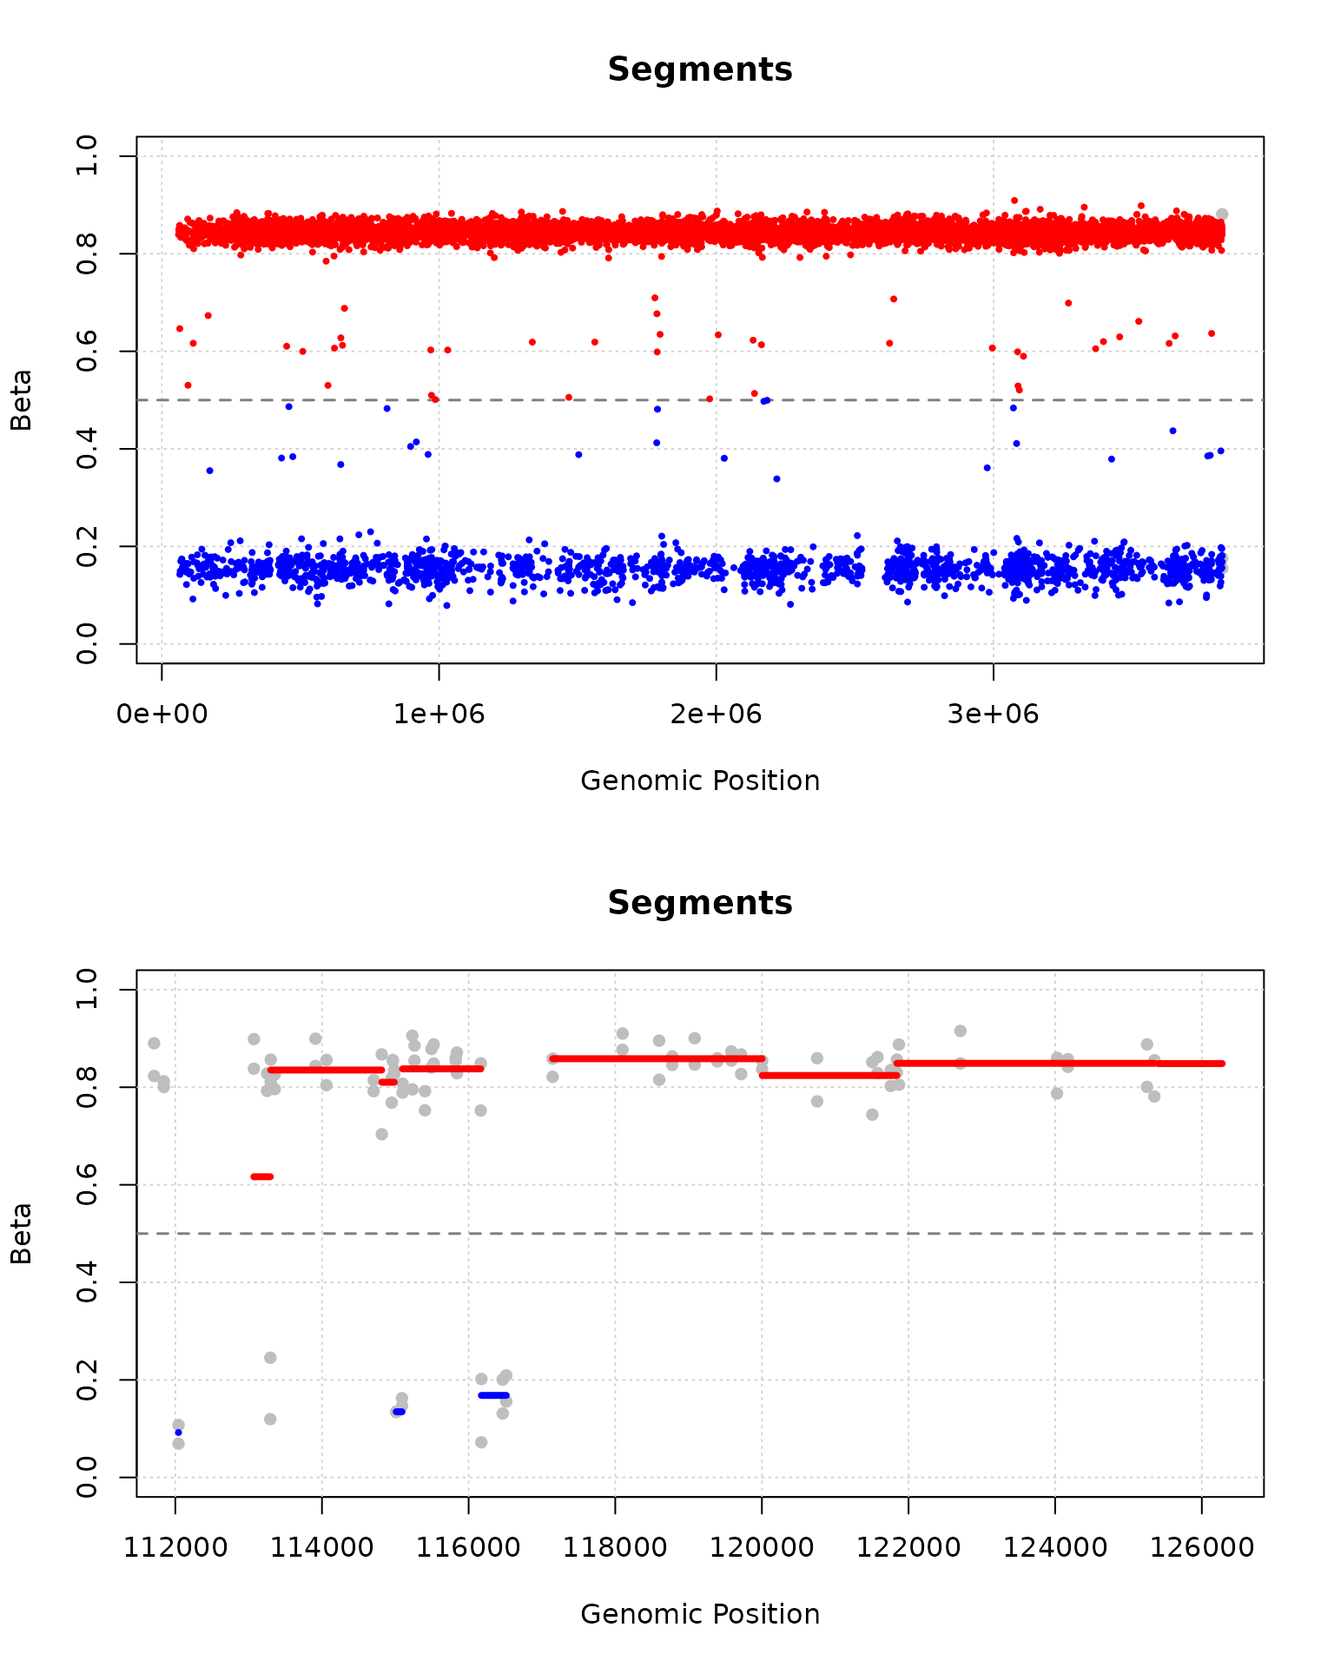
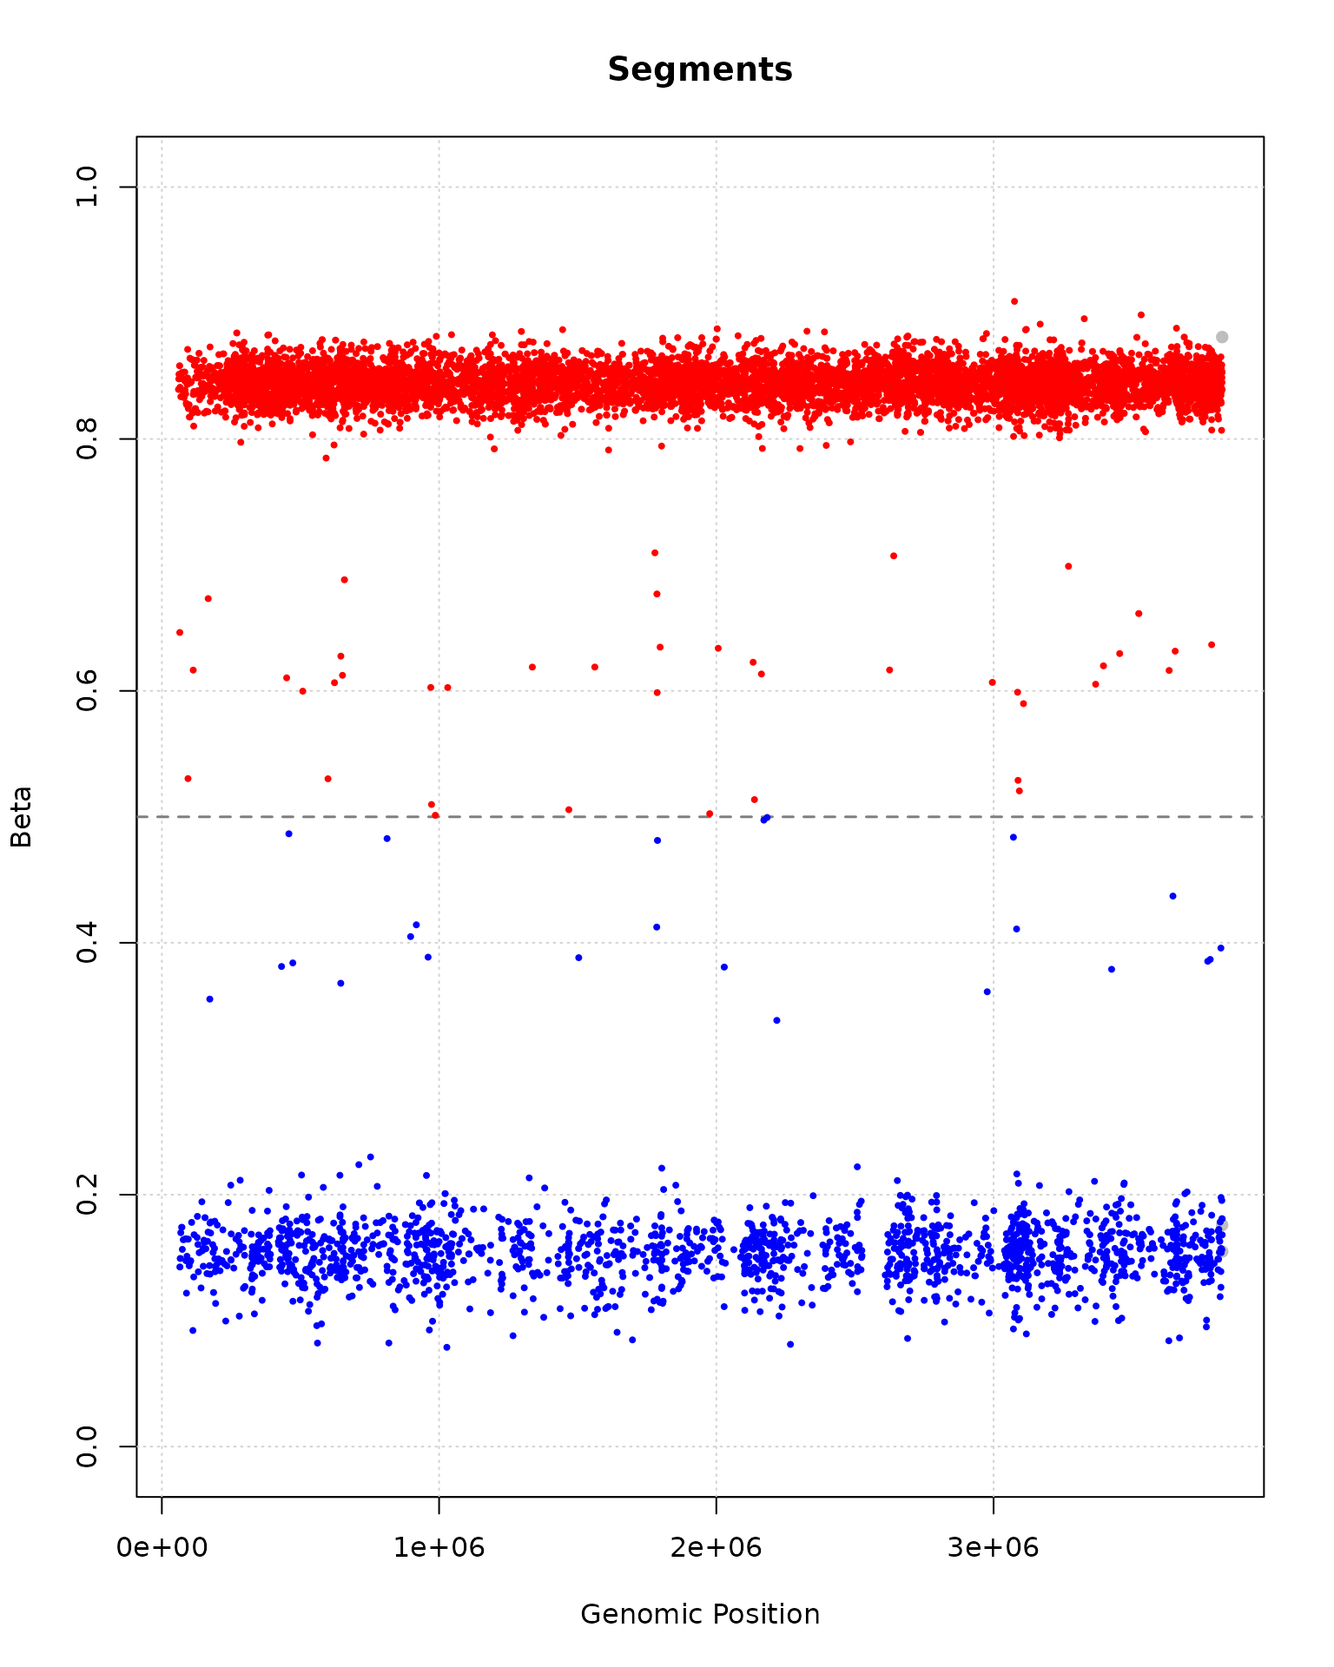
Deploying to gh-pages from @ holmsusa/methFuse@3d9df163da82120f7fcf3affe77a68844b3f34b5 🚀

diff --git a/articles/example.html b/articles/example.html
@@ -166,17 +166,18 @@ summary table and a data frame with betas.</p>
 <span><span class="co">## chr20.64609 0.6808511 0.6701031</span></span>
 <span><span class="co">## chr20.64778 0.2166667 0.2110092</span></span></code></pre>
 <div class="sourceCode" id="cb8"><pre class="downlit sourceCode r">
-<code class="sourceCode R"><span><span class="fu"><a href="https://rdrr.io/r/graphics/par.html" class="external-link">par</a></span><span class="op">(</span>mfrow <span class="op">=</span> <span class="fu"><a href="https://rdrr.io/r/base/c.html" class="external-link">c</a></span><span class="op">(</span><span class="fl">2</span>,<span class="fl">1</span><span class="op">)</span> <span class="op">)</span></span>
-<span><span class="fu"><a href="https://rdrr.io/r/graphics/plot.default.html" class="external-link">plot</a></span><span class="op">(</span><span class="va">segment_result</span>, segments_to_plot <span class="op">=</span> <span class="fl">1</span><span class="op">:</span><span class="fu"><a href="https://rdrr.io/r/base/nrow.html" class="external-link">nrow</a></span><span class="op">(</span><span class="va">segment_result</span><span class="op">$</span><span class="va">summary</span><span class="op">)</span><span class="op">)</span></span>
-<span><span class="fu"><a href="https://rdrr.io/r/graphics/plot.default.html" class="external-link">plot</a></span><span class="op">(</span><span class="va">segment_result</span>, segments_to_plot <span class="op">=</span> <span class="fl">50</span><span class="op">:</span><span class="fl">60</span><span class="op">)</span></span></code></pre></div>
+<code class="sourceCode R"><span><span class="fu"><a href="https://rdrr.io/r/graphics/plot.default.html" class="external-link">plot</a></span><span class="op">(</span><span class="va">segment_result</span>, segments_to_plot <span class="op">=</span> <span class="fl">1</span><span class="op">:</span><span class="fu"><a href="https://rdrr.io/r/base/nrow.html" class="external-link">nrow</a></span><span class="op">(</span><span class="va">segment_result</span><span class="op">$</span><span class="va">summary</span><span class="op">)</span><span class="op">)</span></span></code></pre></div>
 <p><img src="example_files/figure-html/unnamed-chunk-5-1.png" class="r-plt" alt="" width="768"></p>
+<div class="sourceCode" id="cb9"><pre class="downlit sourceCode r">
+<code class="sourceCode R"><span><span class="fu"><a href="https://rdrr.io/r/graphics/plot.default.html" class="external-link">plot</a></span><span class="op">(</span><span class="va">segment_result</span>, segments_to_plot <span class="op">=</span> <span class="fl">50</span><span class="op">:</span><span class="fl">60</span><span class="op">)</span></span></code></pre></div>
+<p><img src="example_files/figure-html/unnamed-chunk-5-2.png" class="r-plt" alt="" width="768"></p>
 </div>
 <div class="section level2">
 <h2 id="using-bsseq-or-methrix">Using BSseq or methrix<a class="anchor" aria-label="anchor" href="#using-bsseq-or-methrix"></a>
 </h2>
 <p>The ‘fuse.segment()’ function accepts as input also a BSseq or a
 methrix object.</p>
-<div class="sourceCode" id="cb9"><pre class="downlit sourceCode r">
+<div class="sourceCode" id="cb10"><pre class="downlit sourceCode r">
 <code class="sourceCode R"><span><span class="kw"><a href="https://rdrr.io/r/base/library.html" class="external-link">library</a></span><span class="op">(</span><span class="va"><a href="https://github.com/kasperdanielhansen/bsseq" class="external-link">bsseq</a></span><span class="op">)</span></span>
 <span></span>
 <span><span class="fu"><a href="https://rdrr.io/r/base/Random.html" class="external-link">set.seed</a></span><span class="op">(</span><span class="fl">1</span><span class="op">)</span></span>
@@ -203,7 +204,7 @@ methrix object.</p>
 <span><span class="co">## 2 chr1.251 chr1   251  500  250    250 0.50035855     TRUE</span></span>
 <span><span class="co">## 3 chr1.501 chr1   501  750  250    250 0.08405464    FALSE</span></span>
 <span><span class="co">## 4 chr1.751 chr1   751 1000  250    250 0.31483887     TRUE</span></span></code></pre>
-<div class="sourceCode" id="cb11"><pre class="downlit sourceCode r">
+<div class="sourceCode" id="cb12"><pre class="downlit sourceCode r">
 <code class="sourceCode R"><span><span class="kw"><a href="https://rdrr.io/r/base/library.html" class="external-link">library</a></span><span class="op">(</span><span class="va"><a href="https://github.com/CompEpigen/methrix" class="external-link">methrix</a></span><span class="op">)</span></span>
 <span></span>
 <span><span class="fu"><a href="https://rdrr.io/r/utils/data.html" class="external-link">data</a></span><span class="op">(</span><span class="va">methrix_data</span>, package <span class="op">=</span> <span class="st">"methrix"</span><span class="op">)</span></span>
@@ -230,7 +231,7 @@ pipeline can also be applied by calling each of the functions
 <p>In the first step, ‘fuse.cluster()’ is applied on the count matrices.
 This performs a hierarchical clustering of closest neighbors, and
 outputs a clustering tree of class ‘hclust’.</p>
-<div class="sourceCode" id="cb13"><pre class="downlit sourceCode r">
+<div class="sourceCode" id="cb14"><pre class="downlit sourceCode r">
 <code class="sourceCode R"><span><span class="va">tree</span> <span class="op">&lt;-</span> <span class="fu"><a href="../reference/fuse.cluster.html">fuse.cluster</a></span><span class="op">(</span><span class="fu"><a href="https://rdrr.io/r/base/matrix.html" class="external-link">as.matrix</a></span><span class="op">(</span><span class="va">K0</span><span class="op">)</span>, </span>
 <span>                     <span class="fu"><a href="https://rdrr.io/r/base/matrix.html" class="external-link">as.matrix</a></span><span class="op">(</span><span class="va">K1</span><span class="op">)</span>,</span>
 <span>                     chr <span class="op">=</span> <span class="fu"><a href="https://rdrr.io/r/base/grep.html" class="external-link">sub</a></span><span class="op">(</span><span class="st">"\\..*$"</span>, <span class="st">""</span>, <span class="fu"><a href="https://rdrr.io/pkg/BiocGenerics/man/row_colnames.html" class="external-link">rownames</a></span><span class="op">(</span><span class="va">K0</span><span class="op">)</span><span class="op">)</span>, </span>
@@ -238,7 +239,7 @@ outputs a clustering tree of class ‘hclust’.</p>
 <span><span class="fu"><a href="https://rdrr.io/r/base/names.html" class="external-link">names</a></span><span class="op">(</span><span class="va">tree</span><span class="op">)</span></span></code></pre></div>
 <pre><code><span><span class="co">## [1] "merge"       "height"      "order"       "labels"      "call"       </span></span>
 <span><span class="co">## [6] "method"      "dist.method"</span></span></code></pre>
-<div class="sourceCode" id="cb15"><pre class="downlit sourceCode r">
+<div class="sourceCode" id="cb16"><pre class="downlit sourceCode r">
 <code class="sourceCode R"><span><span class="fu"><a href="https://rdrr.io/r/utils/head.html" class="external-link">head</a></span><span class="op">(</span><span class="va">tree</span><span class="op">$</span><span class="va">merge</span><span class="op">)</span></span></code></pre></div>
 <pre><code><span><span class="co">##        [,1]   [,2]</span></span>
 <span><span class="co">## [1,] -45579 -45580</span></span>
@@ -247,7 +248,7 @@ outputs a clustering tree of class ‘hclust’.</p>
 <span><span class="co">## [4,] -49658 -49659</span></span>
 <span><span class="co">## [5,] -23937 -23938</span></span>
 <span><span class="co">## [6,] -41560 -41561</span></span></code></pre>
-<div class="sourceCode" id="cb17"><pre class="downlit sourceCode r">
+<div class="sourceCode" id="cb18"><pre class="downlit sourceCode r">
 <code class="sourceCode R"><span><span class="fu"><a href="https://rdrr.io/r/utils/head.html" class="external-link">head</a></span><span class="op">(</span><span class="va">tree</span><span class="op">$</span><span class="va">height</span><span class="op">)</span></span></code></pre></div>
 <pre><code><span><span class="co">## [1] 10.65993 23.28925 35.99633 48.57419 65.21045 82.47522</span></span></code></pre>
 <p>The clustering tree contains the following elements:</p>
@@ -269,13 +270,13 @@ needs to be calculated. For this we have the function
 ‘number.of.clusters()’, which performs model selection by minimizing
 either the Bayesian Information Criterion (BIC, default), or the Akaike
 Information Criterion (AIC).</p>
-<div class="sourceCode" id="cb19"><pre class="downlit sourceCode r">
+<div class="sourceCode" id="cb20"><pre class="downlit sourceCode r">
 <code class="sourceCode R"><span><span class="va">optimal_num_of_segments</span> <span class="op">&lt;-</span> <span class="fu"><a href="../reference/number.of.clusters.html">number.of.clusters</a></span><span class="op">(</span><span class="va">tree</span>, <span class="fu"><a href="https://rdrr.io/pkg/BiocGenerics/man/nrow.html" class="external-link">ncol</a></span><span class="op">(</span><span class="va">K0</span><span class="op">)</span>, <span class="st">'BIC'</span><span class="op">)</span></span>
 <span><span class="va">optimal_num_of_segments</span></span></code></pre></div>
 <pre><code><span><span class="co">## [1] 9030</span></span></code></pre>
 <p>The tree can then be cut using ‘fuse.cut.tree()’, (or ‘cutree’ from
 package ‘stats’).</p>
-<div class="sourceCode" id="cb21"><pre class="downlit sourceCode r">
+<div class="sourceCode" id="cb22"><pre class="downlit sourceCode r">
 <code class="sourceCode R"><span><span class="va">segments</span> <span class="op">&lt;-</span> <span class="fu"><a href="../reference/fuse.cut.tree.html">fuse.cut.tree</a></span><span class="op">(</span><span class="va">tree</span>, <span class="va">optimal_num_of_segments</span><span class="op">)</span></span>
 <span><span class="fu"><a href="https://rdrr.io/r/utils/head.html" class="external-link">head</a></span><span class="op">(</span><span class="va">segments</span>, <span class="fl">100</span><span class="op">)</span></span></code></pre></div>
 <pre><code><span><span class="co">##   [1] 1 1 1 1 1 1 1 1 1 1 1 1 1 1 1 1 1 2 2 2 2 2 2 2 2 2 2 2 2 3 3 3 3 3 3 3 3</span></span>
@@ -287,7 +288,7 @@ package ‘stats’).</p>
 </h3>
 <p>The segments can be summarized in a table with the function
 ‘fuse.summary()’.</p>
-<div class="sourceCode" id="cb23"><pre class="downlit sourceCode r">
+<div class="sourceCode" id="cb24"><pre class="downlit sourceCode r">
 <code class="sourceCode R"><span><span class="va">result</span> <span class="op">&lt;-</span> <span class="fu"><a href="../reference/fuse.summary.html">fuse.summary</a></span><span class="op">(</span><span class="fu"><a href="https://rdrr.io/r/base/matrix.html" class="external-link">as.matrix</a></span><span class="op">(</span><span class="va">K0</span><span class="op">)</span>, </span>
 <span>                       <span class="fu"><a href="https://rdrr.io/r/base/matrix.html" class="external-link">as.matrix</a></span><span class="op">(</span><span class="va">K1</span><span class="op">)</span>, </span>
 <span>                       chr <span class="op">=</span> <span class="fu"><a href="https://rdrr.io/r/base/grep.html" class="external-link">sub</a></span><span class="op">(</span><span class="st">"\\..*$"</span>, <span class="st">""</span>, <span class="fu"><a href="https://rdrr.io/pkg/BiocGenerics/man/row_colnames.html" class="external-link">rownames</a></span><span class="op">(</span><span class="va">K0</span><span class="op">)</span><span class="op">)</span>, </span>
@@ -302,7 +303,7 @@ package ‘stats’).</p>
 <span><span class="co">## 4 chr20.63863 chr20 63863 64424   13    562 0.8565943    FALSE</span></span>
 <span><span class="co">## 5 chr20.64609 chr20 64609 64728    6    120 0.6418476    FALSE</span></span>
 <span><span class="co">## 6 chr20.64778 chr20 64778 65365    6    588 0.1449167    FALSE</span></span></code></pre>
-<div class="sourceCode" id="cb25"><pre class="downlit sourceCode r">
+<div class="sourceCode" id="cb26"><pre class="downlit sourceCode r">
 <code class="sourceCode R"><span><span class="fu"><a href="https://rdrr.io/r/utils/head.html" class="external-link">head</a></span><span class="op">(</span><span class="va">result</span><span class="op">$</span><span class="va">betas_per_segment</span><span class="op">)</span></span></code></pre></div>
 <pre><code><span><span class="co">##               Sample1   Sample2   Sample3    Sample4   Sample5    Sample6</span></span>
 <span><span class="co">## chr20.60008 0.7331288 0.7795786 0.8133333 0.84156977 0.7853659 0.81250000</span></span>
@@ -337,10 +338,10 @@ package ‘stats’).</p>
 <h3 id="verification">Verification<a class="anchor" aria-label="anchor" href="#verification"></a>
 </h3>
 <p>The outputs are identical.</p>
-<div class="sourceCode" id="cb27"><pre class="downlit sourceCode r">
+<div class="sourceCode" id="cb28"><pre class="downlit sourceCode r">
 <code class="sourceCode R"><span><span class="fu"><a href="https://rdrr.io/r/base/identical.html" class="external-link">identical</a></span><span class="op">(</span><span class="va">segment_result</span><span class="op">$</span><span class="va">summary</span>, <span class="va">result</span><span class="op">$</span><span class="va">summary</span><span class="op">)</span></span></code></pre></div>
 <pre><code><span><span class="co">## [1] TRUE</span></span></code></pre>
-<div class="sourceCode" id="cb29"><pre class="downlit sourceCode r">
+<div class="sourceCode" id="cb30"><pre class="downlit sourceCode r">
 <code class="sourceCode R"><span><span class="fu"><a href="https://rdrr.io/r/base/identical.html" class="external-link">identical</a></span><span class="op">(</span><span class="va">segment_result</span><span class="op">$</span><span class="va">betas_per_segment</span>, <span class="va">result</span><span class="op">$</span><span class="va">betas_per_segment</span><span class="op">)</span></span></code></pre></div>
 <pre><code><span><span class="co">## [1] TRUE</span></span></code></pre>
 </div>
@@ -349,7 +350,7 @@ package ‘stats’).</p>
 <h2 id="plotting">Plotting<a class="anchor" aria-label="anchor" href="#plotting"></a>
 </h2>
 <p>Let’s visualize a small piece of the result:</p>
-<div class="sourceCode" id="cb31"><pre class="downlit sourceCode r">
+<div class="sourceCode" id="cb32"><pre class="downlit sourceCode r">
 <code class="sourceCode R"><span><span class="fu"><a href="https://rdrr.io/r/graphics/plot.default.html" class="external-link">plot</a></span><span class="op">(</span><span class="va">result</span>, segments_to_plot <span class="op">=</span> <span class="fl">1</span><span class="op">:</span><span class="fl">50</span><span class="op">)</span></span></code></pre></div>
 <p><img src="example_files/figure-html/unnamed-chunk-13-1.png" class="r-plt" alt="" width="768"></p>
 </div>

diff --git a/index.html b/index.html
@@ -11,8 +11,8 @@
 <script src="deps/bootstrap-5.3.1/bootstrap.bundle.min.js"></script><link href="deps/font-awesome-6.5.2/css/all.min.css" rel="stylesheet">
 <link href="deps/font-awesome-6.5.2/css/v4-shims.min.css" rel="stylesheet">
 <script src="deps/headroom-0.11.0/headroom.min.js"></script><script src="deps/headroom-0.11.0/jQuery.headroom.min.js"></script><script src="deps/bootstrap-toc-1.0.1/bootstrap-toc.min.js"></script><script src="deps/clipboard.js-2.0.11/clipboard.min.js"></script><script src="deps/search-1.0.0/autocomplete.jquery.min.js"></script><script src="deps/search-1.0.0/fuse.min.js"></script><script src="deps/search-1.0.0/mark.min.js"></script><!-- pkgdown --><script src="pkgdown.js"></script><meta property="og:title" content="Functional Segmentation of the Methylome">
-<meta name="description" content="Finds functional segments in whole-genome bisulfite sequencing data through hierarchical clustering.">
-<meta property="og:description" content="Finds functional segments in whole-genome bisulfite sequencing data through hierarchical clustering.">
+<meta name="description" content="Implements FUSE (Functional Segmentation of DNA methylation data), a data-driven method for identifying spatially coherent DNA methylation segments from whole-genome bisulfite sequencing (WGBS) count data. The method performs hierarchical clustering of CpG sites based on methylated and unmethylated read counts across multiple samples and determines the optimal number of segments using an information criterion (AIC or BIC). Resulting segments represent regions with homogeneous methylation profiles across the input cohort while allowing sample-specific methylation levels. The package provides functions for clustering, model selection, tree cutting, segment-level summarization, and visualization. Input can be supplied as count matrices or extracted directly from BSseq and methrix objects.">
+<meta property="og:description" content="Implements FUSE (Functional Segmentation of DNA methylation data), a data-driven method for identifying spatially coherent DNA methylation segments from whole-genome bisulfite sequencing (WGBS) count data. The method performs hierarchical clustering of CpG sites based on methylated and unmethylated read counts across multiple samples and determines the optimal number of segments using an information criterion (AIC or BIC). Resulting segments represent regions with homogeneous methylation profiles across the input cohort while allowing sample-specific methylation levels. The package provides functions for clustering, model selection, tree cutting, segment-level summarization, and visualization. Input can be supplied as count matrices or extracted directly from BSseq and methrix objects.">
 </head>
 <body>
     <a href="#main" class="visually-hidden-focusable">Skip to contents</a>
@@ -195,6 +195,7 @@
 <h2 data-toc-skip>Developers</h2>
 <ul class="list-unstyled">
 <li>Susanna Holmström <br><small class="roles"> Author, maintainer </small> <a href="https://orcid.org/0009-0005-7542-5913" target="orcid.widget" aria-label="ORCID" class="external-link"><span class="fab fa-orcid orcid" aria-hidden="true"></span></a>  </li>
+<li><a href="authors.html">More about authors...</a></li>
 </ul>
 </div>
 

diff --git a/authors.html b/authors.html
@@ -38,6 +38,10 @@
           <p><strong>Susanna Holmström</strong>. Author, maintainer. <a href="https://orcid.org/0009-0005-7542-5913" target="orcid.widget" aria-label="ORCID" class="external-link"><span class="fab fa-orcid orcid" aria-hidden="true"></span></a>
           </p>
         </li>
+        <li>
+          <p><strong>Antti Hakkinen</strong>. Contributor, copyright holder.
+          </p>
+        </li>
       </ul></div>
 
     <div class="section level2">

diff --git a/reference/plot.fuse_summary.html b/reference/plot.fuse_summary.html
@@ -60,6 +60,10 @@
 
 </dl></div>
     <div class="section level2">
+    <h2 id="value">Value<a class="anchor" aria-label="anchor" href="#value"></a></h2>
+    <p>No return value, called for side effects.</p>
+    </div>
+    <div class="section level2">
     <h2 id="details">Details<a class="anchor" aria-label="anchor" href="#details"></a></h2>
     <p>Raw CpG-level methylation values are shown as grey points.
 Segment-level methylation is shown as horizontal bars

diff --git a/LICENSE-text.html b/LICENSE-text.html
@@ -32,8 +32,8 @@
 
     </div>
 
-<pre>YEAR: 2026
-COPYRIGHT HOLDER: Susanna Holmstrom
+<pre>YEAR: 2015-2026
+COPYRIGHT HOLDER: Susanna Holmström, Antti Hakkinen
 </pre>
 
   </main></div>

diff --git a/articles/example.md b/articles/example.md
@@ -114,12 +114,16 @@ head(segment_result$betas_per_segment)
     ## chr20.64778 0.2166667 0.2110092
 
 ``` r
-par(mfrow = c(2,1) )
 plot(segment_result, segments_to_plot = 1:nrow(segment_result$summary))
-plot(segment_result, segments_to_plot = 50:60)
 ```
 
 ![](example_files/figure-html/unnamed-chunk-5-1.png)
+
+``` r
+plot(segment_result, segments_to_plot = 50:60)
+```
+
+![](example_files/figure-html/unnamed-chunk-5-2.png)
 
 ## Using BSseq or methrix
 

diff --git a/authors.md b/authors.md
@@ -5,6 +5,8 @@
 - **Susanna Holmström**. Author, maintainer.
   [](https://orcid.org/0009-0005-7542-5913)
 
+- **Antti Hakkinen**. Contributor, copyright holder.
+
 ## Citation
 
 Holmström S (2026). *methFuse: Functional Segmentation of the

diff --git a/reference/plot.fuse_summary.md b/reference/plot.fuse_summary.md
@@ -23,6 +23,10 @@ plot(x, ..., segments_to_plot = 1:50)
 
   Integer vector of segment indices
 
+## Value
+
+No return value, called for side effects.
+
 ## Details
 
 Raw CpG-level methylation values are shown as grey points. Segment-level

diff --git a/LICENSE-text.md b/LICENSE-text.md
@@ -1,4 +1,4 @@
 # License
 
-    YEAR: 2026
-    COPYRIGHT HOLDER: Susanna Holmstrom
+    YEAR: 2015-2026
+    COPYRIGHT HOLDER: Susanna Holmström, Antti Hakkinen
